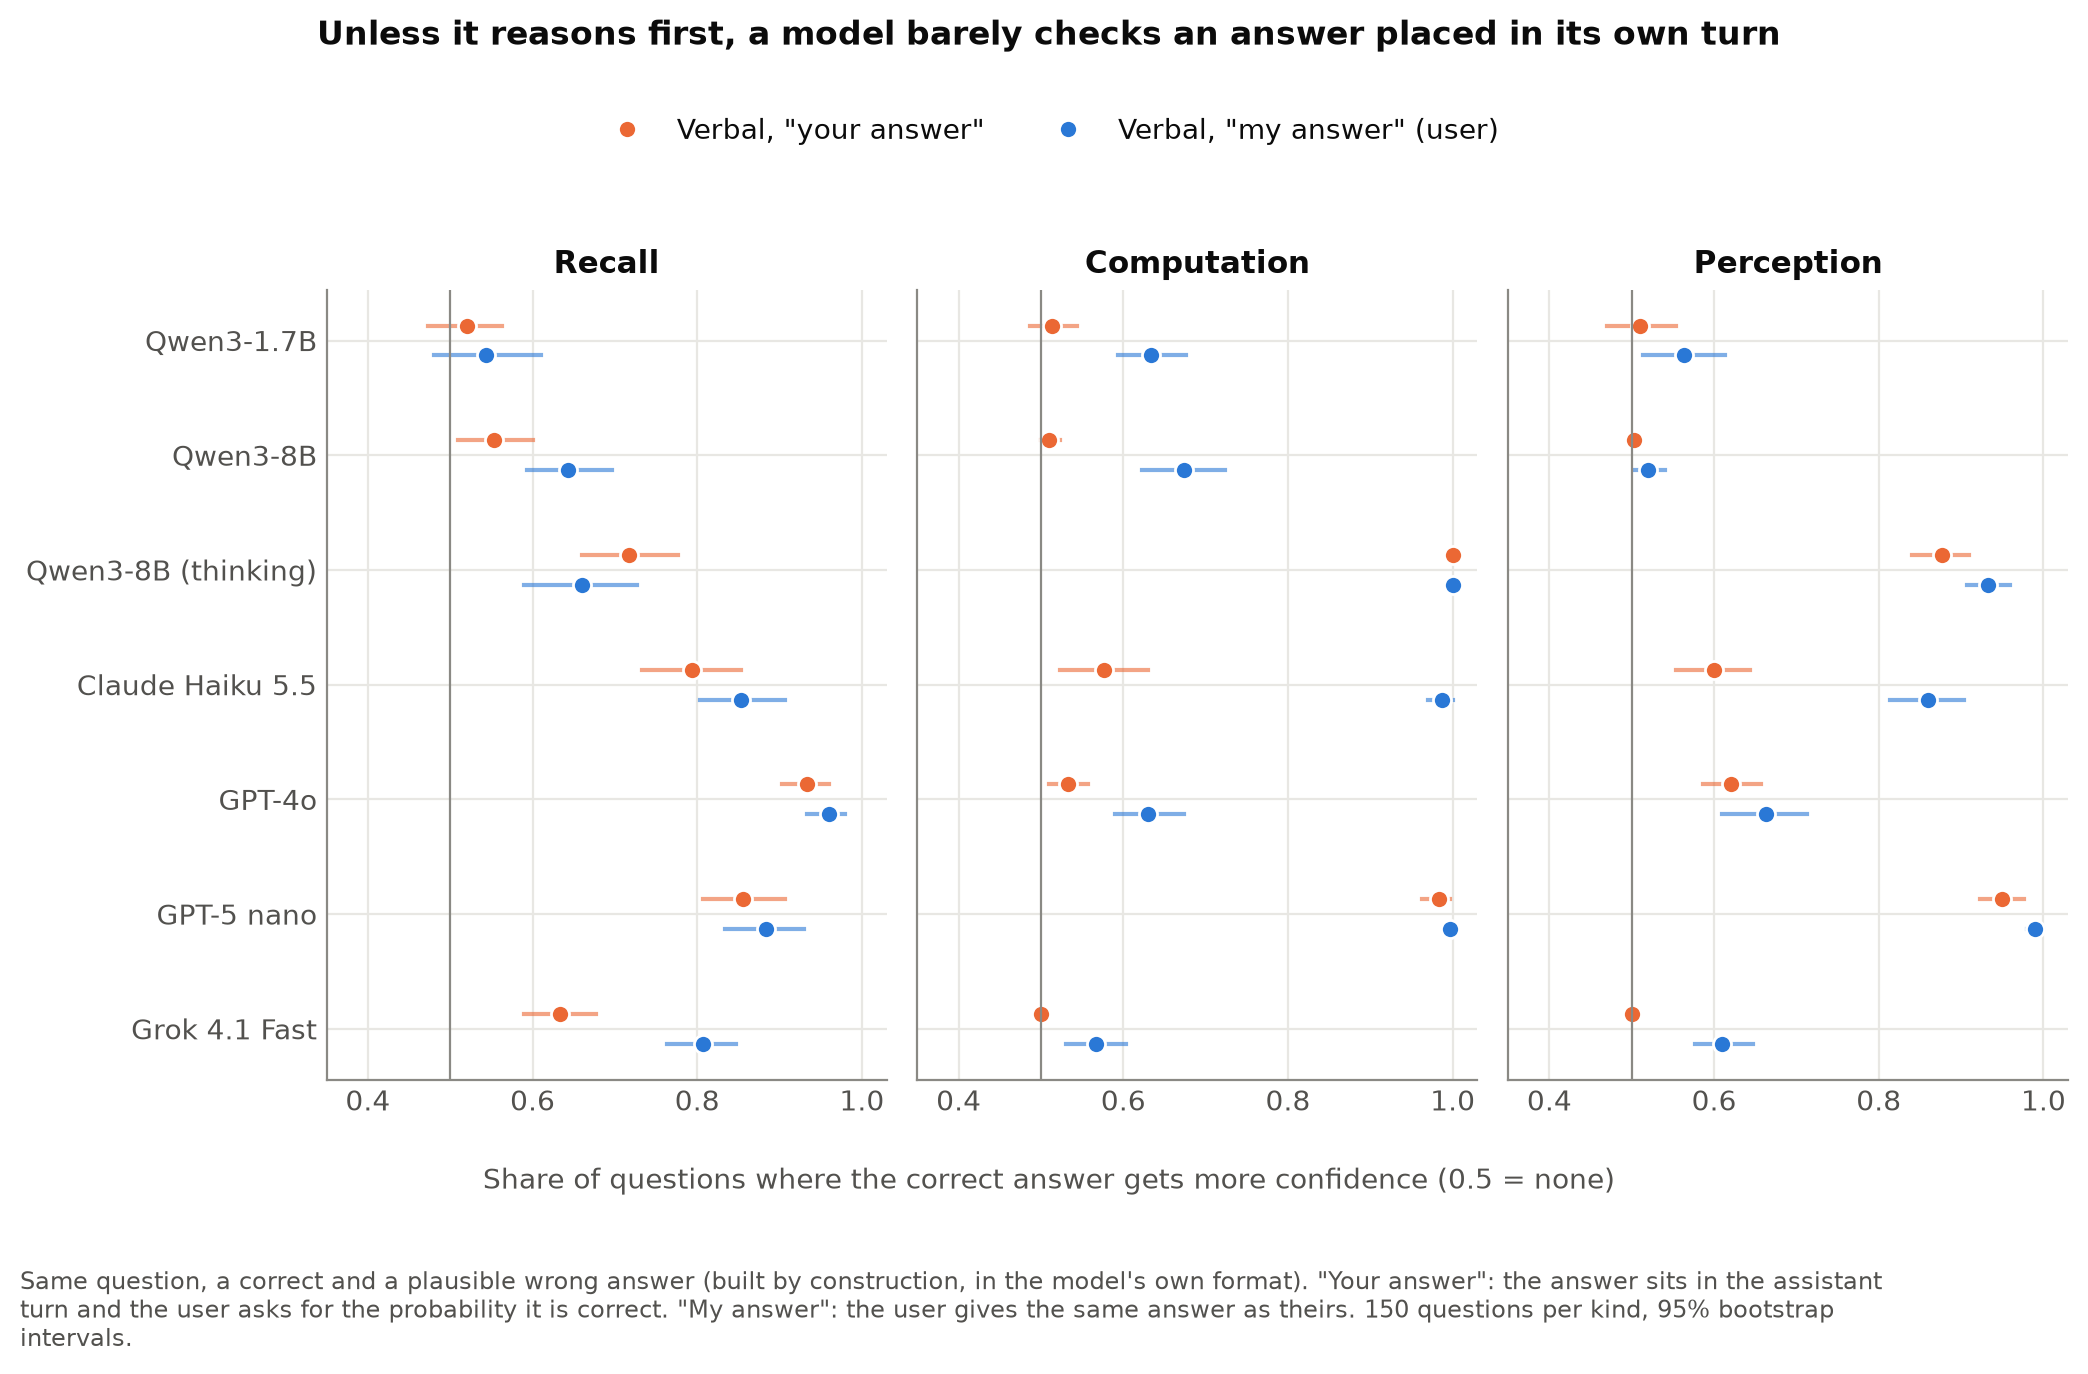
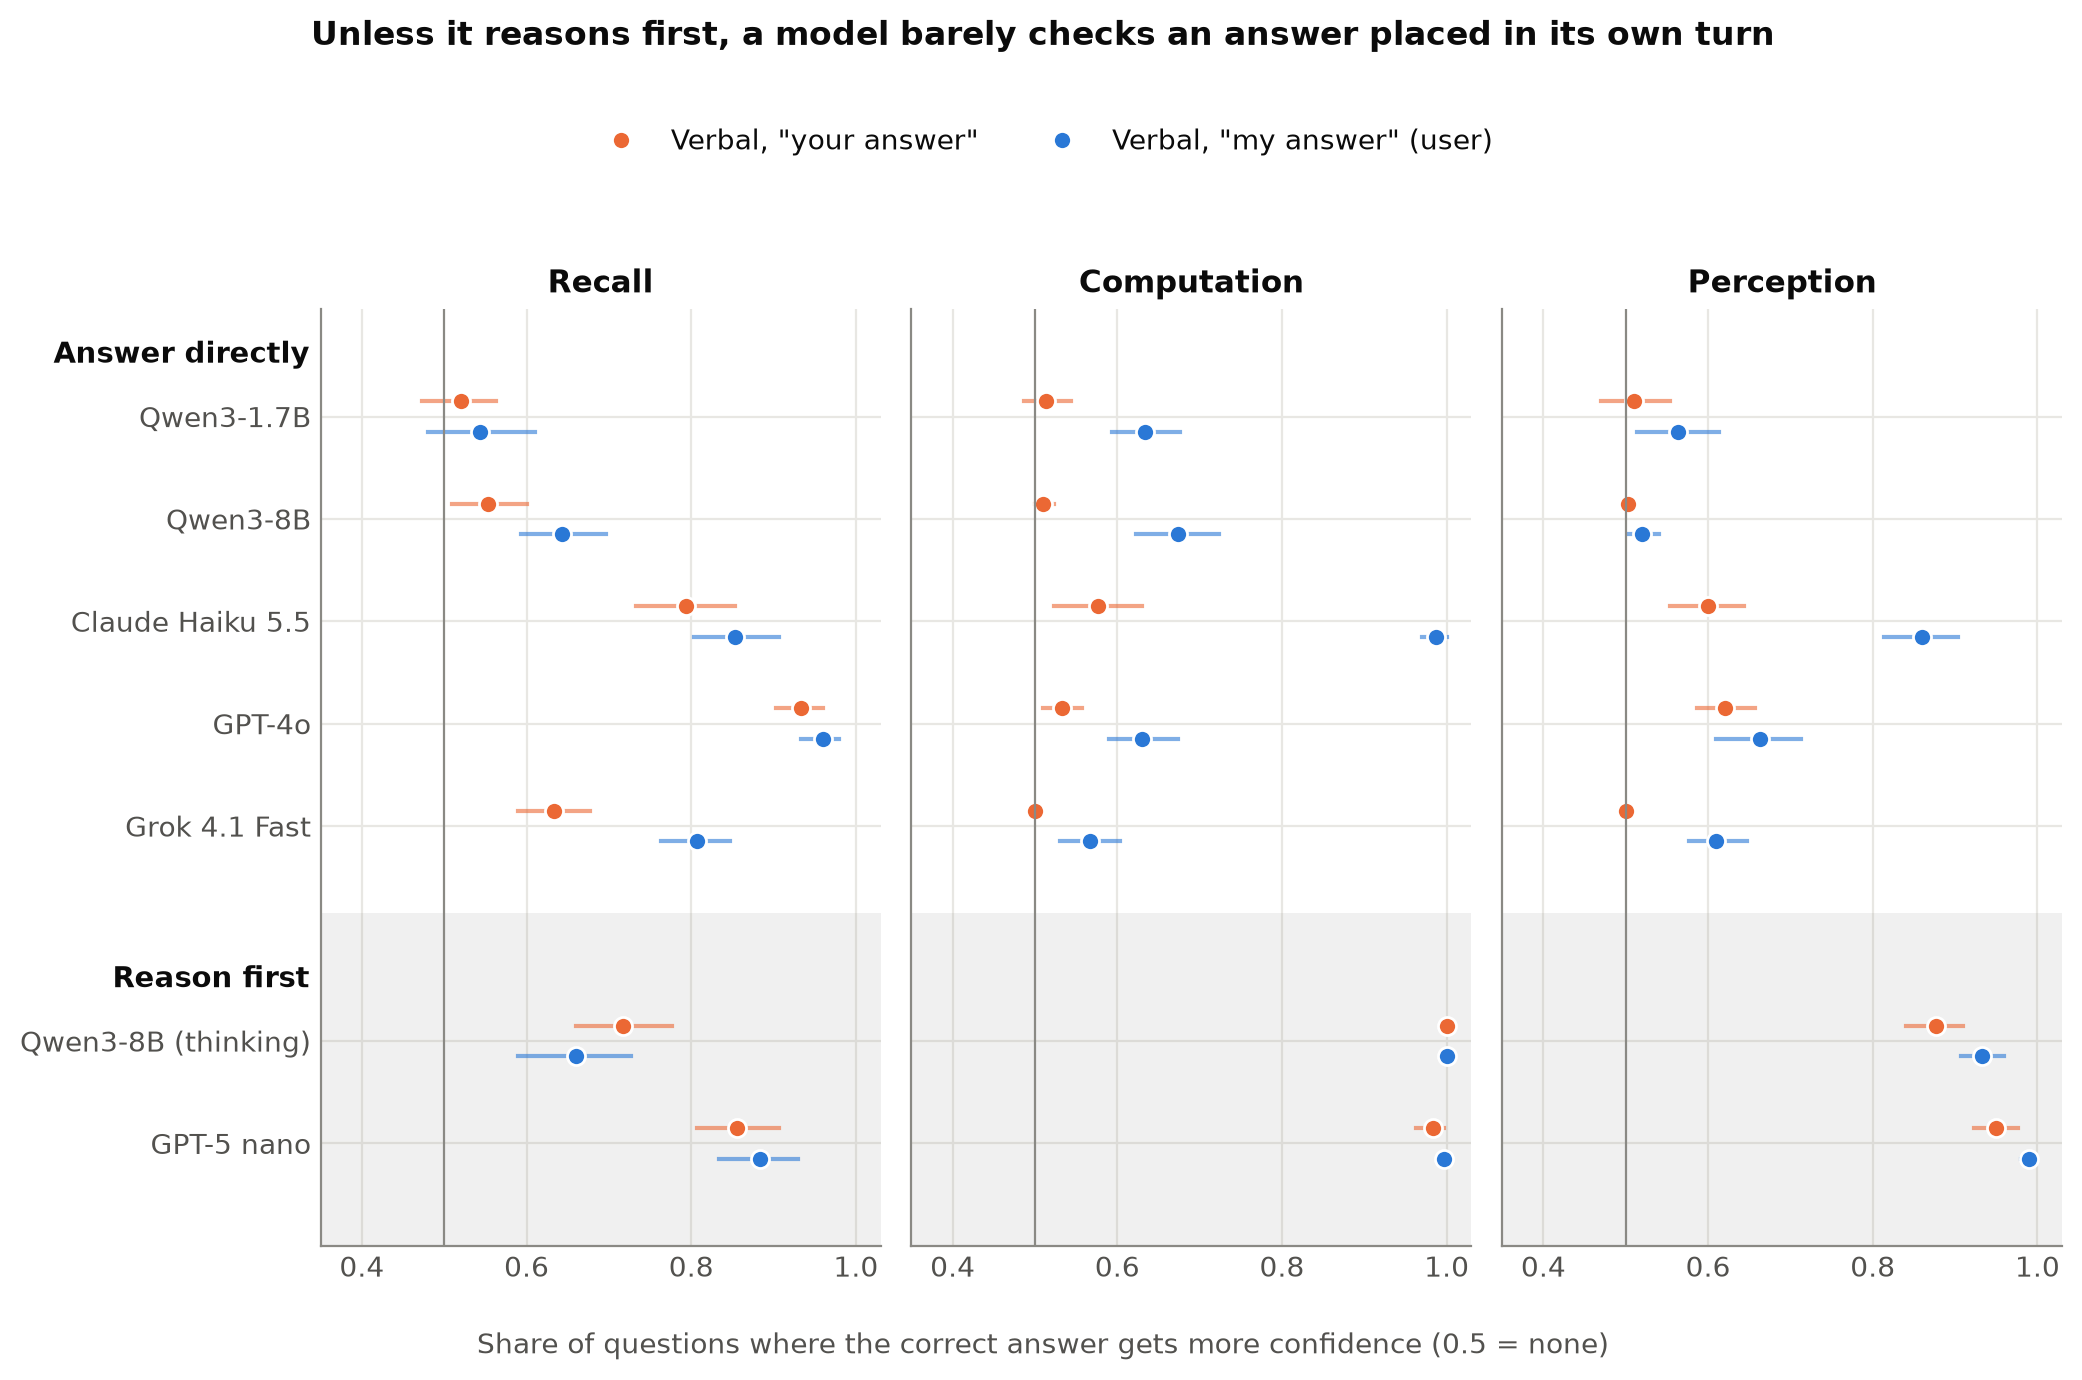
Figure 1: group models that answer directly vs reason first (shaded), drop the note under the figure (the report caption covers it)

diff --git a/experiments/epic2/phase2_confidence_gap/analyze_swaps.py b/experiments/epic2/phase2_confidence_gap/analyze_swaps.py
@@ -393,40 +393,54 @@ def fig_separation(sep: pd.DataFrame) -> None:
 
 
 def fig_ownership(sep: pd.DataFrame) -> None:
-    """Key figure: separation under "your answer" vs "my answer", every model with verbal readouts."""
+    """Key figure: separation under "your answer" vs "my answer", every model with verbal readouts,
+    grouped into models that answer directly and models that reason first."""
     pl = phase1.plots
     import matplotlib.pyplot as plt
+    from matplotlib.transforms import blended_transform_factory
 
-    models = [c for c in ("qwen3-1.7b", "qwen3-8b", "qwen3-8b-think", "claude-haiku", "gpt-4o", "gpt-5-nano",
-                          "grok-4-1-fast") if c in set(sep.config)]
-    fig, axes = plt.subplots(1, 3, figsize=(10.5, 1.4 + 0.55 * len(models)), sharey=True, sharex=True)
+    have = set(sep.config)
+    groups = [("Answer directly", [c for c in ("qwen3-1.7b", "qwen3-8b", "claude-haiku", "gpt-4o", "grok-4-1-fast")
+                                   if c in have]),
+              ("Reason first", [c for c in ("qwen3-8b-think", "gpt-5-nano") if c in have])]
+    rows, ypos, heads, y = [], [], [], 0.0
+    for name, ms in groups:
+        heads.append((name, y))
+        y += 0.75
+        for m in ms:
+            rows.append(m)
+            ypos.append(y)
+            y += 1.0
+        y += 0.35
+    fig, axes = plt.subplots(1, 3, figsize=(10.5, 1.2 + 0.52 * y), sharey=True, sharex=True)
     for c, kind in enumerate(KINDS):
         ax = axes[c]
-        for i, cfg in enumerate(models):
+        r0 = ypos[len(groups[0][1])] - 0.5 - 0.75
+        ax.axhspan(r0, y - 0.35, color=pl.MUTED, alpha=0.12, lw=0)
+        for cfg, yy in zip(rows, ypos, strict=True):
             g = sep[(sep.config == cfg) & (sep.kind == kind)].set_index("readout")
-            for r, colour, dy in (("verbal_self", pl.ORANGE, -0.13), ("verbal_user", pl.BLUE, 0.13)):
+            for r, colour, dy in (("verbal_self", pl.ORANGE, -0.15), ("verbal_user", pl.BLUE, 0.15)):
                 if r not in g.index:
                     continue
-                y = i + dy
-                ax.plot([g.loc[r, "win_lo"], g.loc[r, "win_hi"]], [y, y], color=colour, lw=1.5, alpha=0.6)
-                ax.plot(g.loc[r, "win"], y, "o", color=colour, ms=6.5, mec=pl.SURFACE, mew=1,
-                        label=NAMES[r] if (c == 0 and i == 0) else None)
+                ax.plot([g.loc[r, "win_lo"], g.loc[r, "win_hi"]], [yy + dy, yy + dy], color=colour, lw=1.5,
+                        alpha=0.6)
+                ax.plot(g.loc[r, "win"], yy + dy, "o", color=colour, ms=6.5, mec=pl.SURFACE, mew=1,
+                        label=NAMES[r] if (c == 0 and cfg == rows[0]) else None)
         ax.axvline(0.5, color=pl.MUTED, lw=0.8)
-        ax.set_yticks(range(len(models)), [pl.MODEL_NAME[m] for m in models])
+        ax.set_yticks(ypos, [pl.MODEL_NAME[m] for m in rows])
         ax.set_xlim(0.35, 1.03)
+        ax.set_ylim(y - 0.35, -0.3)
         ax.set_title(kind.capitalize())
-        if c == 0:
-            ax.invert_yaxis()
+    tr = blended_transform_factory(axes[0].transAxes, axes[0].transData)
+    for name, yy in heads:
+        axes[0].text(-0.02, yy + 0.15, name, transform=tr, ha="right", va="center", fontweight="bold",
+                     fontsize=10.5, color=pl.INK if hasattr(pl, "INK") else "black")
     h, lab = axes[0].get_legend_handles_labels()
     fig.legend(h, lab, loc="upper center", ncol=2, bbox_to_anchor=(0.5, 1.06))
     fig.suptitle("Unless it reasons first, a model barely checks an answer placed in its own turn",
                  y=1.13, fontweight="bold")
     fig.supxlabel("Share of questions where the correct answer gets more confidence (0.5 = none)",
                   fontsize=10, color=pl.INK2)
-    pl.caption(fig, "Same question, a correct and a plausible wrong answer (built by construction, in the "
-                    "model's own format). \"Your answer\": the answer sits in the assistant turn and the user "
-                    "asks for the probability it is correct. \"My answer\": the user gives the same answer as "
-                    "theirs. 150 questions per kind, 95% bootstrap intervals.", y=-0.06)
     fig.tight_layout()
     save(fig, "e2_ownership")
 
